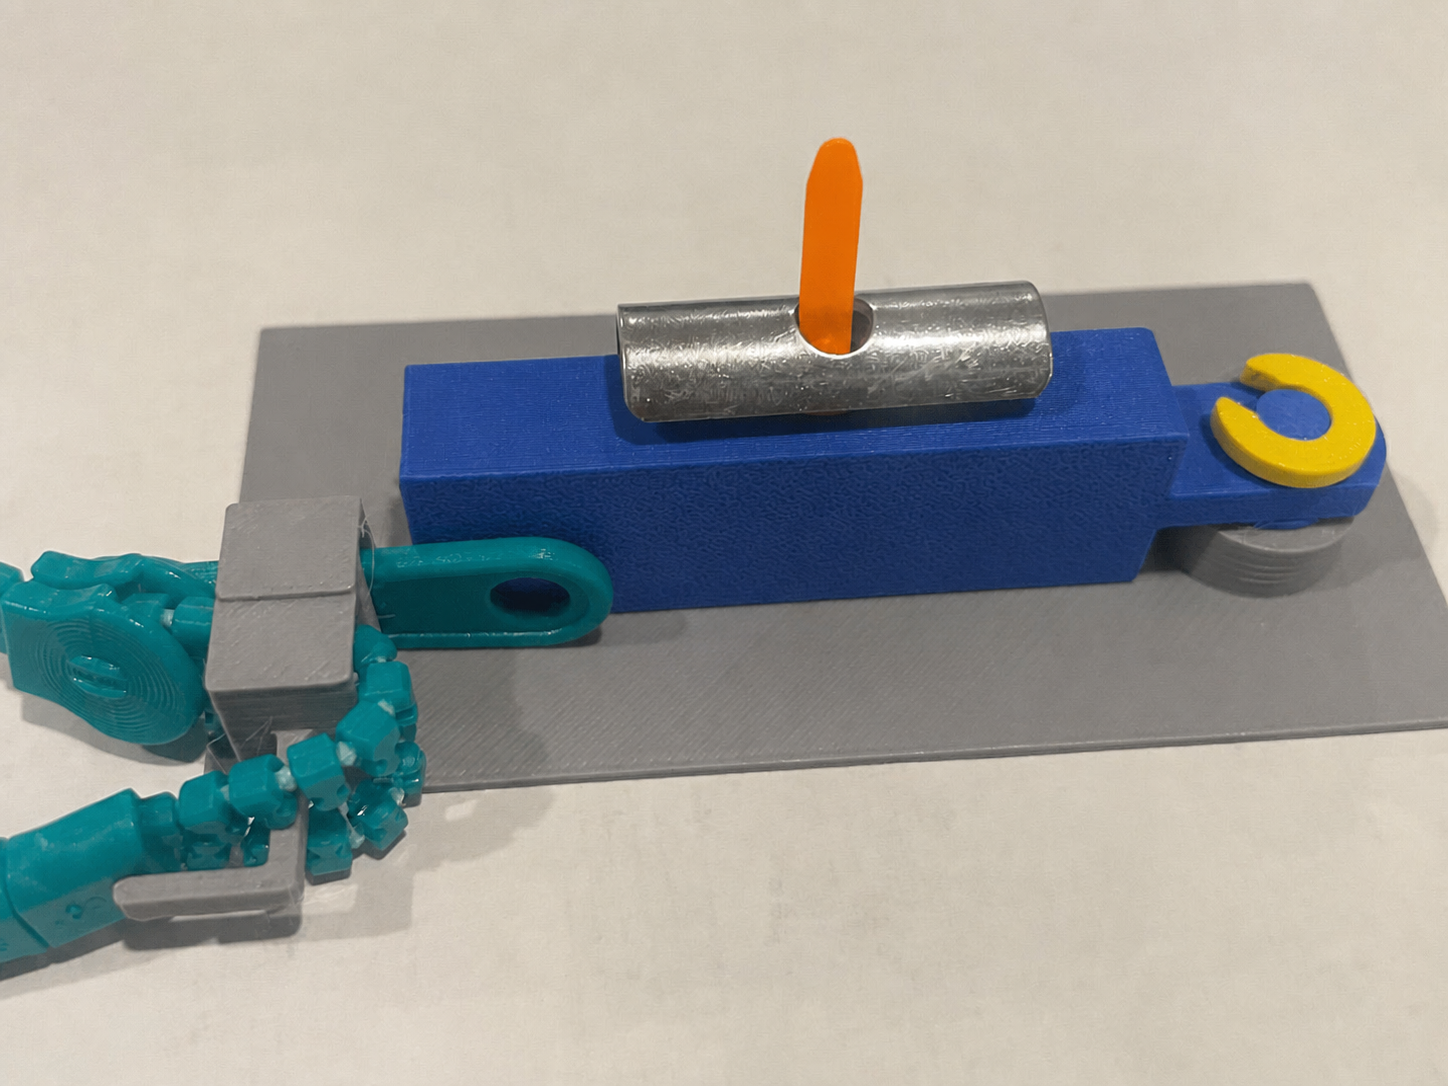
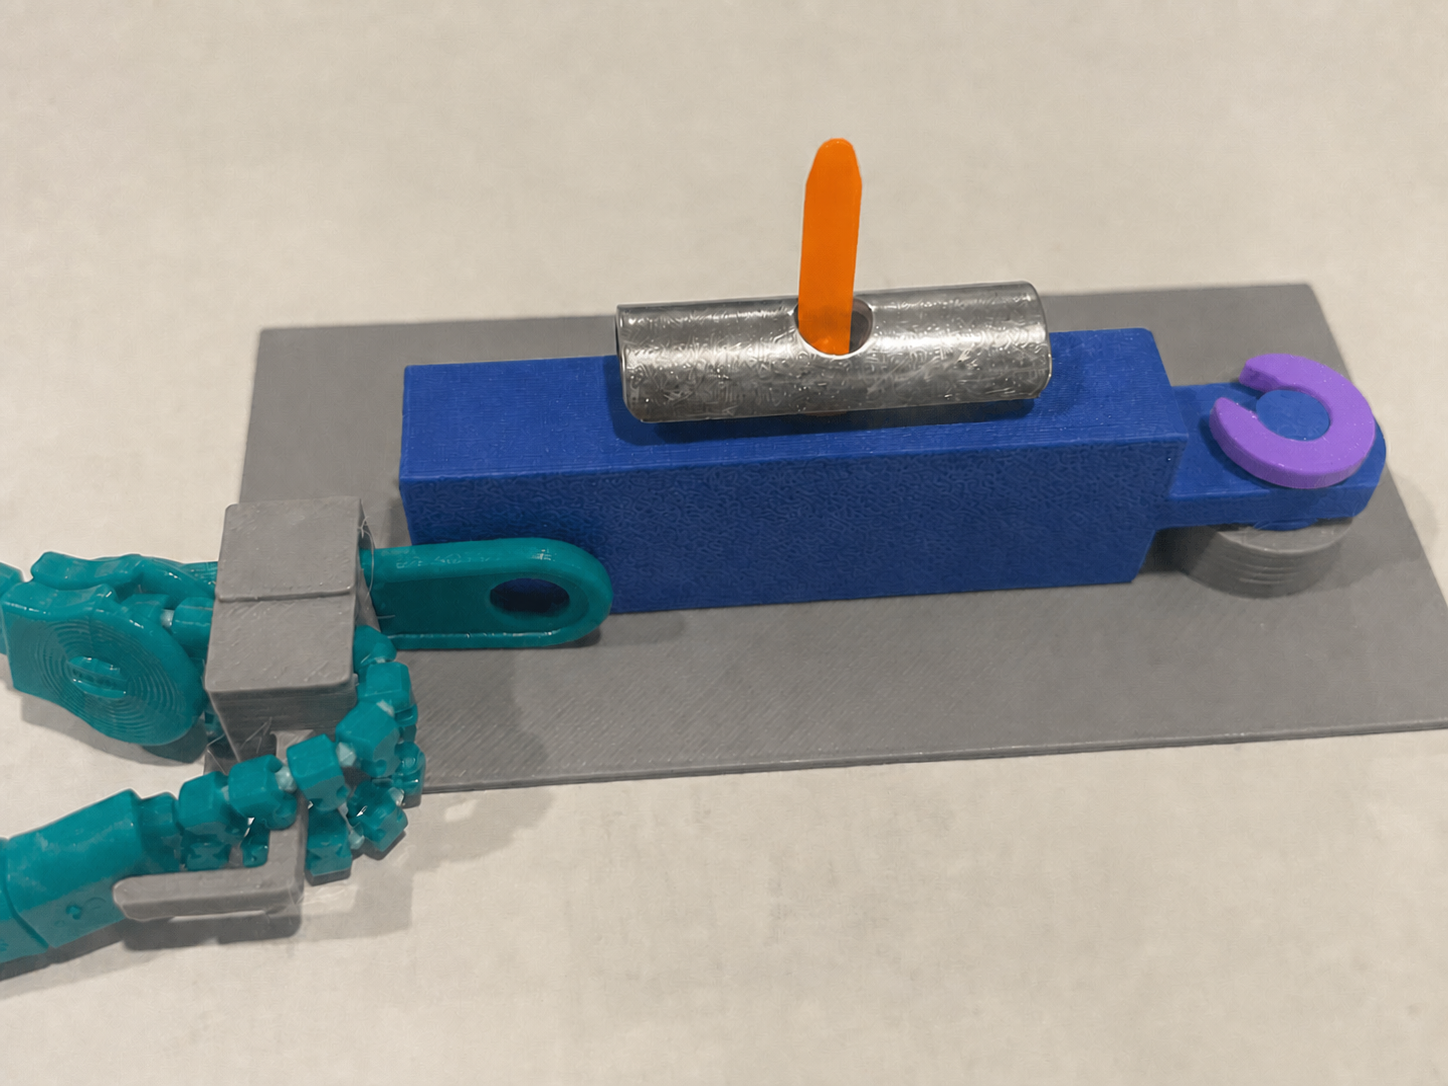
Restore zipper latch instruction and purple clip

diff --git a/AssemblyData.html b/AssemblyData.html
@@ -1,5 +1,5 @@
 window.ASSEMBLY_MANIFEST = {
-  version: 2,
+  version: 3,
   imageBase: "https://cdn.jsdelivr.net/gh/dvzdan/frames-site@dace05b/assets/instruction%20images",
   reference: {
     title: "Final Setup",
@@ -95,7 +95,8 @@ window.ASSEMBLY_MANIFEST = {
           id: "slide-zipper-under-latch",
           order: 6,
           title: "Lock the Latch with the Zipper",
-          image: "06-slide-zipper-under-latch.png"
+          image: "06-slide-zipper-under-latch.png",
+          instruction: "Slide the zipper beneath the raised latch to hold it in place."
         },
         {
           id: "fasten-cover-image-to-weight",
